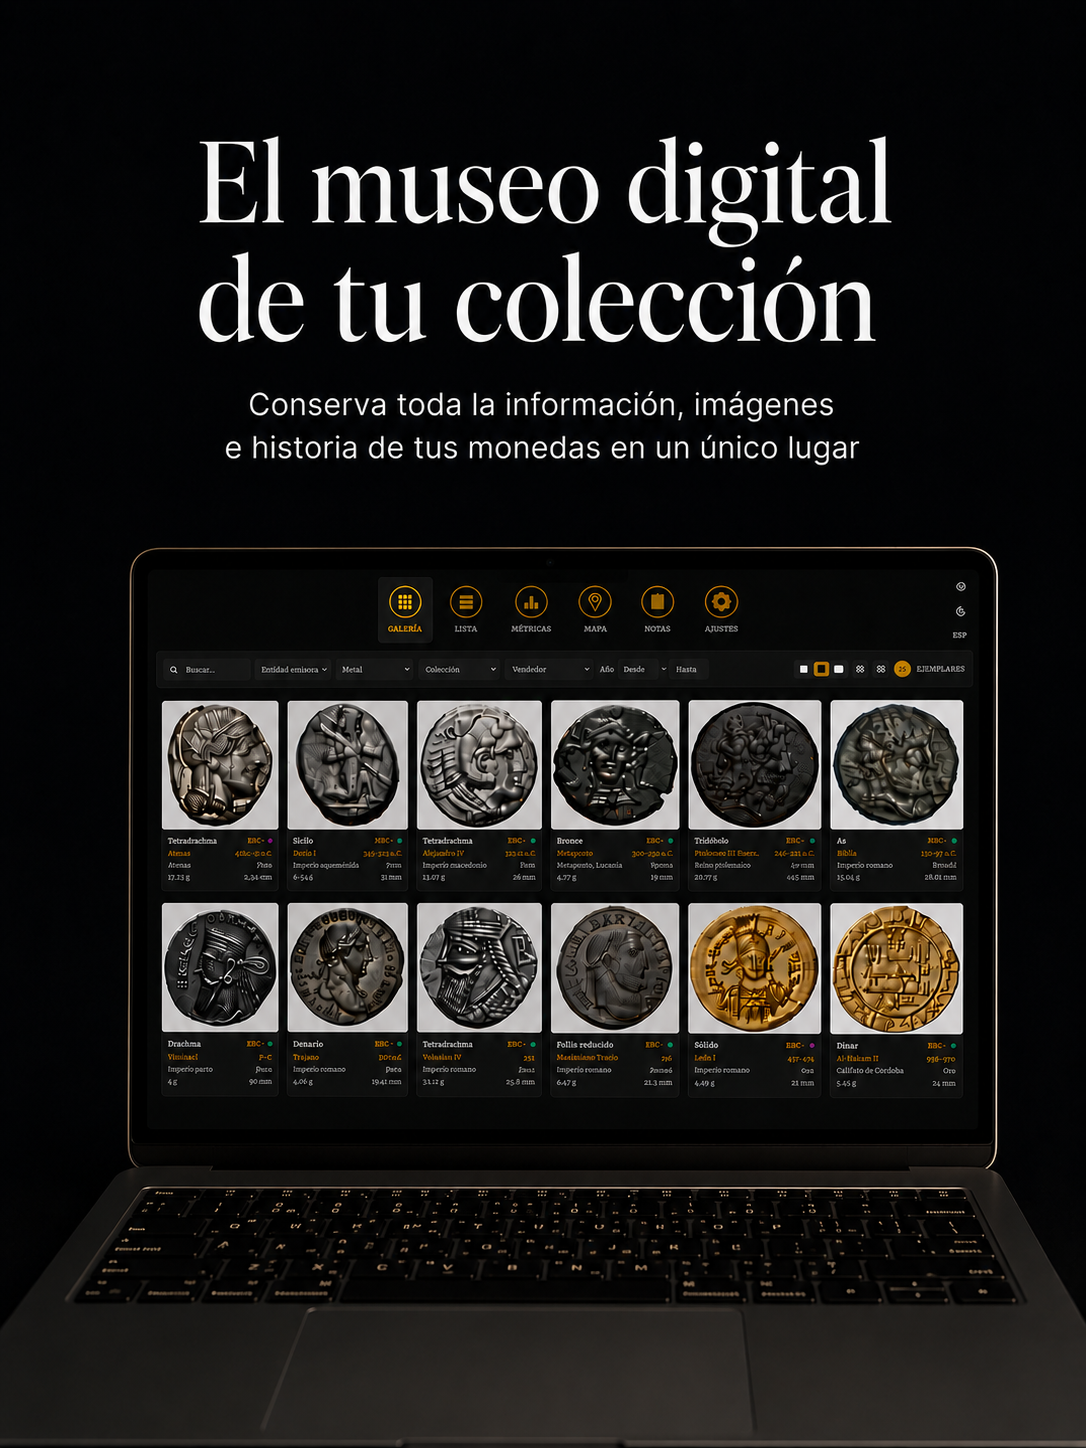
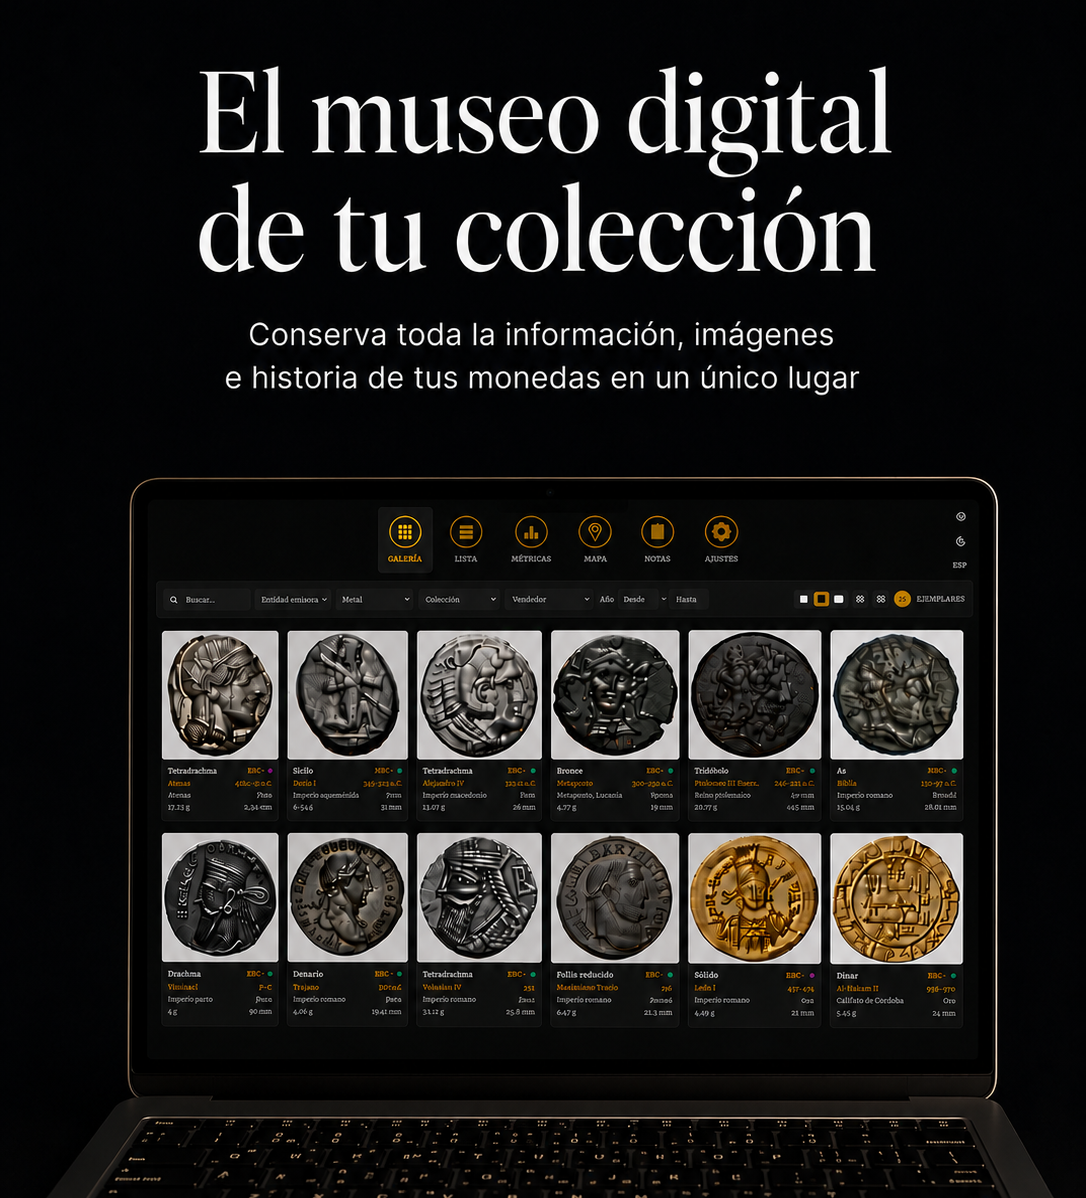
Recortar imágenes softlanding y ajustar CSS para eliminar scroll y negro lateral

diff --git a/descarga.html b/descarga.html
@@ -84,7 +84,12 @@
       overflow: hidden;
     }
     .dl-visual-frame img {
-      width: 100%; height: auto; display: block;
+      width: auto;
+      max-width: 100%;
+      max-height: calc(100vh - 160px);
+      height: auto;
+      display: block;
+      margin: 0 auto;
     }
 
     /* ── COLUMNA DERECHA: suscripción + descarga ─────────────────── */
@@ -409,8 +414,8 @@
                 src="assets/Softlanding2.png"
                 alt="Legado — vista general de la aplicación"
                 loading="eager"
-                width="1424"
-                height="747"
+                width="1086"
+                height="1198"
               />
             </div>
           </div>

diff --git a/en/download.html b/en/download.html
@@ -84,7 +84,12 @@
       overflow: hidden;
     }
     .dl-visual-frame img {
-      width: 100%; height: auto; display: block;
+      width: auto;
+      max-width: 100%;
+      max-height: calc(100vh - 160px);
+      height: auto;
+      display: block;
+      margin: 0 auto;
     }
 
     /* ── COLUMNA DERECHA: suscripción + descarga ─────────────────── */
@@ -409,8 +414,8 @@
                 src="/assets/Softlanding2eng.png"
                 alt="Legado — app overview"
                 loading="eager"
-                width="1424"
-                height="747"
+                width="1086"
+                height="1198"
               />
             </div>
           </div>
